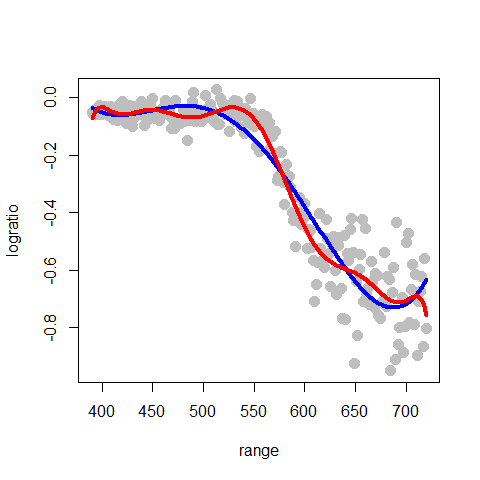
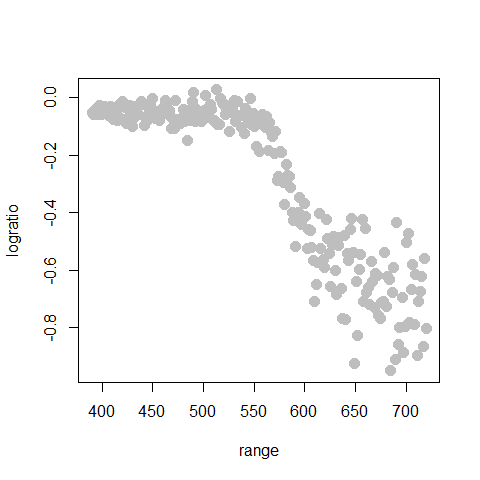
Get on with Lec 8 already

Changed region(s): [[0.1875, 0.2188, 0.5938, 0.375], [0.5938, 0.375, 0.7188, 0.5625], [0.7188, 0.5625, 0.9062, 0.6562]]

diff --git a/Lecture8/README.md b/Lecture8/README.md
@@ -1,7 +1,7 @@
 STAT406 - Lecture 8 notes
 ================
 Matias Salibian-Barrera
-2017-09-24
+2017-09-26
 
 Lecture slides
 --------------
@@ -11,30 +11,57 @@ The lecture slides are [here](STAT406-17-lecture-8-preliminary.pdf).
 Non-parametric regression
 =========================
 
+We now turn our attention to the situation where the regression function E(Y|X) is not necessarily linear. Furthermore, we will assume that its "form" is **unknown**. If we knew that the regression function was a polynomial in the coordinates of the vector X (e.g. a quadratic function), or if we knew that the true regression function belonged to a family of functions that we can parametrize, then the regression function could be estimated via least squares. Instead here we focus on the case where the regression function is **completely unknown**.
+
+Below we will discuss two main approaches to estimating E(Y|X): (a) one using bases (e.g. a polynomial basis, or a spline basis); and (b) one using kernels (aka local regression).
+
+To simplify the presentation, and also because of an intrinsic limitation of these methods (which will be discussed in more detail later), we will initially only consider the case where there is a single explanatory variable (i.e. X above is a scalar, not a vector).
+
 Polynomial regression
 ---------------------
+
+To illustrate the methods, we will consider the `lidar` data, available in the package `SemiPar`. More information on these data is available from the corresponding help page: `help(lidar, package='SemiPar')`. We now load the data and plot it, the response variable is `logratio` and the explanatory one is `range`:
 
 ``` r
 # help(lidar, package='SemiPar')
 
 data(lidar, package='SemiPar')
 plot(logratio~range, data=lidar, pch=19, col='gray', cex=1.5)
-
-# Degree 4 polynomials
-pm <- lm(logratio ~ poly(range, 4), data=lidar)
-plot(logratio~range, data=lidar, pch=19, col='gray', cex=1.5)
-lines(predict(pm)[order(range)] ~ sort(range), data=lidar, lwd=4, col='blue')
-
-# Degree 10 polynomials
-pm2 <- lm(logratio ~ poly(range, 10), data=lidar)
-lines(predict(pm2)[order(range)]~sort(range), data=lidar, lwd=4, col='red')
 ```
 
 ![](README_files/figure-markdown_github-ascii_identifiers/nonparam-1.png)
 
-``` r
-# A more flexible basis: splines
+It is easy to verify that if we model the regression function as a 4th degree polynomial, the problem reduces to a linear regression one (see the lecture slides). So we could use a command like `lm(logratio ~ range + range^2 + range^3 + range^4)`. However, that approach will not work as we intend it (I recommend that you check this and find the explanation). Instead, we would need to use something like `lm(logratio ~ range + I(range^2) + I(range^3) ... )`, which can quickly get clumsy and error-prone. We can instead use the function `poly()` in `R` to generate the matrix containing the powers of `range`, and plug that into the call to `lm()`. The code below fits such an approximation, plots the data and overlays the estimated regression function:
 
+``` r
+# Degree 4 polynomials
+pm <- lm(logratio ~ poly(range, 4), data=lidar)
+plot(logratio~range, data=lidar, pch=19, col='gray', cex=1.5)
+lines(predict(pm)[order(range)] ~ sort(range), data=lidar, lwd=4, col='blue')
+```
+
+![](README_files/figure-markdown_github-ascii_identifiers/poly4-1.png)
+
+Note that this fit is reasonable, although there is probably room for improvement. It is tempting to increase the order of the approximating polynomial, however, this is easily seen not to be a good idea. Below we compare the 4th degree approximation used above (in blue) with a 10th degree one (in red):
+
+``` r
+# Degree 10 polynomials
+pm2 <- lm(logratio ~ poly(range, 10), data=lidar)
+plot(logratio~range, data=lidar, pch=19, col='gray', cex=1.5)
+lines(predict(pm)[order(range)] ~ sort(range), data=lidar, lwd=4, col='blue')
+lines(predict(pm2)[order(range)]~sort(range), data=lidar, lwd=4, col='red')
+```
+
+![](README_files/figure-markdown_github-ascii_identifiers/poly10-1.png)
+
+A more stable basis: splines
+----------------------------
+
+Part of the problem with polynomial bases is that they necessarily become more wiggly within the range of the data, and also quickly increase or decrease near the edge of the observations. A more stable but also remarkably flexible basis is given by spline functions, as discussed in class.
+
+We first here show how to build a naive spline basis with 5 knots (placed at the `(1:5)/6` quantiles of the observed values of the explanatory variable), and use it to estimate the regression function. Note that this naive spline basis is numerically very unstable, and thus one should not do this in practice. It is included here simply as an illustration of the methodology and to stress the point that these basis approaches are in fact more complex linear models.
+
+``` r
 # linear splines ``by hand''
 # select the knots at 5 quantiles
 kn <- as.numeric( quantile(lidar$range, (1:5)/6) )
@@ -49,24 +76,33 @@ x[, length(kn)+1] <- lidar$range
 # Fit the regression model
 ppm <- lm(lidar$logratio ~ x)
 plot(logratio~range, data=lidar, pch=19, col='gray', cex=1.5)
-lines(predict(ppm)[order(range)]~sort(range), data=lidar, lwd=4, col='green')
+lines(predict(ppm)[order(range)]~sort(range), data=lidar, lwd=6, col='hotpink')
+```
 
+![](README_files/figure-markdown_github-ascii_identifiers/splines1-1.png)
+
+There are better (more stable) bases for the same linear space spanned by these spline functions. Here we use the function `bs` to build a b-spline basis. To show that this in fact provides the exact same results as using our **poor person** solution above, I overlay both fits (the naive one in pink as above, and the one using b-splines in blue):
+
+``` r
 # a better way to obtain the same fit
 library(splines)
 ppm2 <- lm(logratio ~ bs(range, degree=1, knots=kn), data=lidar)
-lines(predict(ppm)[order(range)]~sort(range), data=lidar, lwd=2, col='blue')
+plot(logratio~range, data=lidar, pch=19, col='gray', cex=1.5)
+lines(predict(ppm)[order(range)]~sort(range), data=lidar, lwd=6, col='hotpink')
+lines(predict(ppm2)[order(range)]~sort(range), data=lidar, lwd=2, col='darkblue')
 ```
 
-![](README_files/figure-markdown_github-ascii_identifiers/nonparam-2.png)
+![](README_files/figure-markdown_github-ascii_identifiers/bsplines1-1.png)
+
+### Higher order splines (quadratic, cubic, etc.)
 
 ``` r
-# quadratic splines?
 plot(logratio~range, data=lidar, pch=19, col='gray', cex=1.5)
 ppmq <- lm(logratio ~ bs(range, degree=2, knots=kn), data=lidar)
 lines(predict(ppmq)[order(range)]~sort(range), data=lidar, lwd=4, col='steelblue')
 ```
 
-![](README_files/figure-markdown_github-ascii_identifiers/nonparam-3.png)
+![](README_files/figure-markdown_github-ascii_identifiers/bsplines2-1.png)
 
 ``` r
 # cubic splines
@@ -75,4 +111,4 @@ ppmc <- lm(logratio ~ bs(range, degree=3, knots=kn), data=lidar)
 lines(predict(ppmc)[order(range)]~sort(range), data=lidar, lwd=4, col='tomato3')
 ```
 
-![](README_files/figure-markdown_github-ascii_identifiers/nonparam-4.png)
+![](README_files/figure-markdown_github-ascii_identifiers/bsplines2-2.png)
